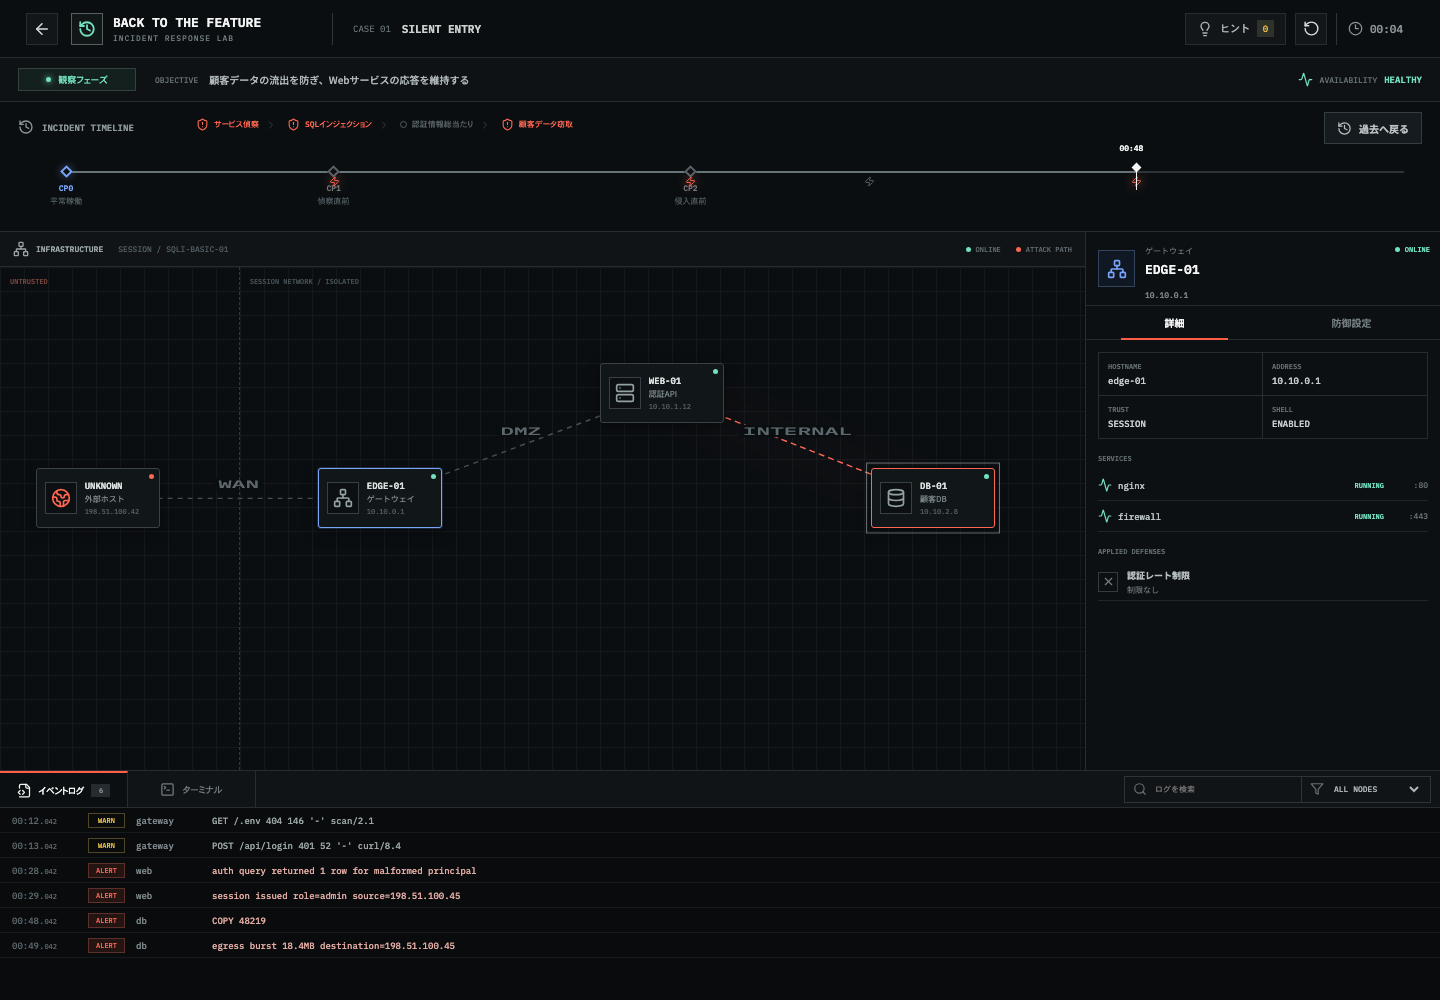
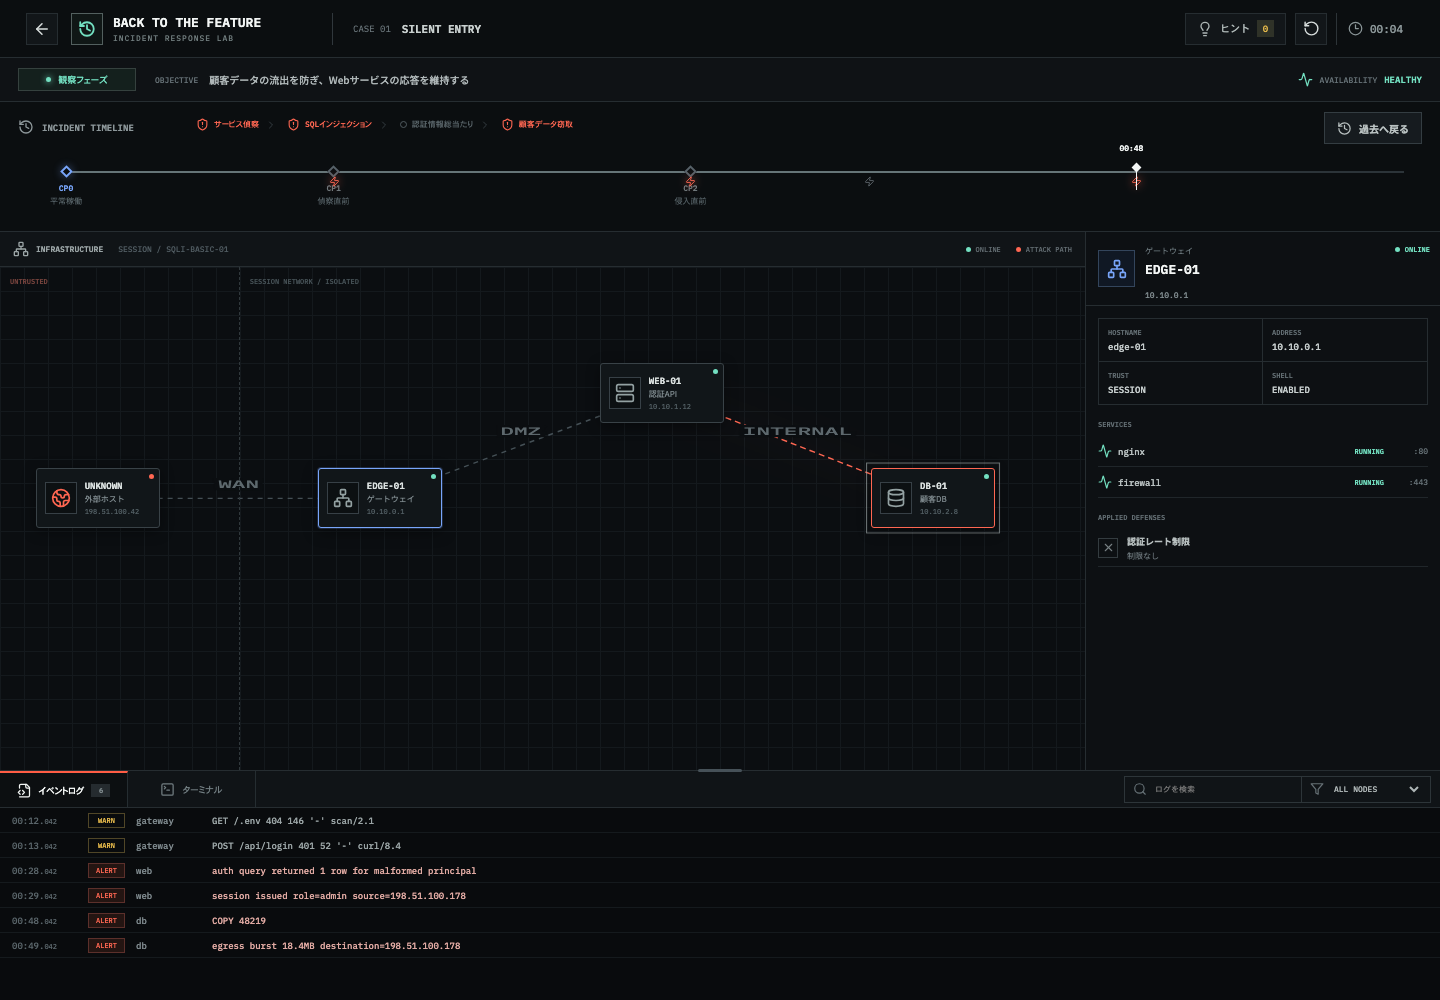
remove changing settings tab to use terminal for all change

Changed region(s): [[0.75, 0.31, 0.8438, 0.589], [0.875, 0.31, 0.9688, 0.434], [0.9375, 0.434, 0.9688, 0.496]]

diff --git a/src/App.tsx b/src/App.tsx
@@ -15,14 +15,12 @@ import {
   History,
   KeyRound,
   Lightbulb,
-  LockKeyhole,
   LogOut,
   Network,
   Play,
   RotateCcw,
   Search,
   Server,
-  Settings2,
   Shield,
   ShieldAlert,
   TerminalSquare,
@@ -36,7 +34,6 @@ import { stages } from './stages/loader'
 import { useProgress } from './store'
 import type {
   AttackResult,
-  DefenseDefinition,
   LoadedStage,
   LogEntry,
   Phase,
@@ -217,11 +214,9 @@ function GameSession({ stage, onExit, onReset }: { stage: LoadedStage; onExit: (
   const [terminalServerId, setTerminalServerId] = useState(stage.infra.servers.find((server) => server.shell)?.id ?? stage.infra.servers[0].id)
   const [selectedCheckpoint, setSelectedCheckpoint] = useState(stage.checkpoints[0].id)
   const [settings, setSettings] = useState(defaultSettings)
-  const [draft, setDraft] = useState(defaultSettings)
   const [results, setResults] = useState<AttackResult[]>([])
   const [logs, setLogs] = useState<LogEntry[]>([])
   const [playhead, setPlayhead] = useState(0)
-  const [rightTab, setRightTab] = useState<'details' | 'defense'>('details')
   const [consoleTab, setConsoleTab] = useState<'logs' | 'terminal'>('logs')
   const [logQuery, setLogQuery] = useState('')
   const [logServer, setLogServer] = useState('all')
@@ -248,7 +243,6 @@ function GameSession({ stage, onExit, onReset }: { stage: LoadedStage; onExit: (
   const terminalServer = terminalServers.find((server) => server.id === terminalServerId) ?? terminalServers[0] ?? stage.infra.servers[0]
   const maxTime = Math.max(...Object.values(stage.scenario.nodes).map((node) => node.time), 60)
   const observed = phase !== 'INITIALIZING' && results.length > 0
-  const changes = stage.defenses.filter((defense) => draft[defense.id] !== settings[defense.id])
 
   const maximumConsoleHeight = () => {
     const shellHeight = gameShellRef.current?.getBoundingClientRect().height ?? window.innerHeight
@@ -316,16 +310,24 @@ function GameSession({ stage, onExit, onReset }: { stage: LoadedStage; onExit: (
     const checkpoint = stage.checkpoints.find((item) => item.id === selectedCheckpoint)!
     setPhase('EDITING')
     setPlayhead(checkpoint.time)
-    setDraft(settings)
-    setRightTab('defense')
+    setConsoleTab('terminal')
     setLogs((current) => [{ id: `rewind-${Date.now()}`, time: `00:${String(checkpoint.time).padStart(2, '0')}`, server: 'system', level: 'INFO', message: `snapshot restored: ${checkpoint.id} / ${checkpoint.label}` }, ...current])
   }
 
-  const applySettings = () => {
-    if (!changes.length) return
-    const changedLabels = changes.map((item) => item.label).join(', ')
-    setSettings(draft)
-    setLogs((current) => [{ id: `config-${Date.now()}`, time: `00:${String(playhead).padStart(2, '0')}`, server: selectedServer.id, level: 'INFO', message: `configuration applied: ${changedLabels}` }, ...current])
+  const changeSettingFromTerminal = (serverId: string, settingId: string, value: boolean) => {
+    const defense = stage.defenses.find((item) => item.serverId === serverId && item.id === settingId)
+    if (!defense) return { ok: false, message: `config: '${settingId}' はこのノードの防御設定ではありません` }
+    if (phase !== 'EDITING') return { ok: false, message: 'config: 設定変更は対策フェーズでのみ実行できます。先に「過去へ戻る」を実行してください' }
+
+    setSettings((current) => ({ ...current, [settingId]: value }))
+    setLogs((current) => [{
+      id: `config-${Date.now()}-${settingId}`,
+      time: `00:${String(playhead).padStart(2, '0')}`,
+      server: serverId,
+      level: 'INFO',
+      message: `configuration updated from terminal: ${defense.label}=${value ? 'on' : 'off'}`,
+    }, ...current])
+    return { ok: true }
   }
 
   const simulate = () => {
@@ -395,7 +397,7 @@ function GameSession({ stage, onExit, onReset }: { stage: LoadedStage; onExit: (
         onSelectCheckpoint={setSelectedCheckpoint}
         onRewind={rewind}
         onSimulate={simulate}
-        canSimulate={phase === 'EDITING' && changes.length === 0}
+        canSimulate={phase === 'EDITING'}
       />
 
       <main className="workspace">
@@ -413,24 +415,7 @@ function GameSession({ stage, onExit, onReset }: { stage: LoadedStage; onExit: (
             <div><span>{selectedServer.role}</span><h2>{selectedServer.label}</h2><code>{selectedServer.ip}</code></div>
             <span className="online-label"><i /> ONLINE</span>
           </div>
-          <div className="tab-list compact-tabs">
-            <button className={rightTab === 'details' ? 'active' : ''} onClick={() => setRightTab('details')}>詳細</button>
-            <button className={rightTab === 'defense' ? 'active' : ''} onClick={() => setRightTab('defense')}>防御設定</button>
-          </div>
-          {rightTab === 'details' ? (
-            <ServerDetails stage={stage} server={selectedServer} settings={settings} />
-          ) : (
-            <DefenseSettings
-              stage={stage}
-              server={selectedServer}
-              phase={phase}
-              settings={settings}
-              draft={draft}
-              onChange={(id, value) => setDraft((current) => ({ ...current, [id]: value }))}
-              onApply={applySettings}
-              changes={changes}
-            />
-          )}
+          <ServerDetails stage={stage} server={selectedServer} settings={settings} />
         </aside>
       </main>
 
@@ -482,7 +467,7 @@ function GameSession({ stage, onExit, onReset }: { stage: LoadedStage; onExit: (
           )}
         </div>
         <div className="console-body">
-          {consoleTab === 'logs' ? <LogViewer logs={filteredLogs} loading={phase === 'INITIALIZING'} /> : <TerminalPanel server={terminalServer} stage={stage} settings={settings} connection={runtime.status === 'live' && runtime.sessionId && runtime.accessToken ? { sessionId: runtime.sessionId, accessToken: runtime.accessToken } : undefined} />}
+          {consoleTab === 'logs' ? <LogViewer logs={filteredLogs} loading={phase === 'INITIALIZING'} /> : <TerminalPanel server={terminalServer} stage={stage} settings={settings} onConfigChange={changeSettingFromTerminal} connection={runtime.status === 'live' && runtime.sessionId && runtime.accessToken ? { sessionId: runtime.sessionId, accessToken: runtime.accessToken } : undefined} />}
         </div>
       </section>
 
@@ -612,38 +597,6 @@ function ServerDetails({ stage, server, settings }: { stage: LoadedStage; server
       </dl>
       <div className="detail-section"><h3>SERVICES</h3>{server.services.map((service, index) => <div className="service-row" key={service}><Activity size={14} /><strong>{service}</strong><span>RUNNING</span><code>{server.ports[index] ? `:${server.ports[index]}` : 'internal'}</code></div>)}</div>
       <div className="detail-section"><h3>APPLIED DEFENSES</h3>{defenses.length ? defenses.map((defense) => <div className="applied-row" key={defense.id}><span className={settings[defense.id] ? 'enabled' : ''}>{settings[defense.id] ? <Check size={13} /> : <X size={13} />}</span><div><strong>{defense.label}</strong><small>{settings[defense.id] ? defense.onLabel : defense.offLabel}</small></div></div>) : <p className="empty-copy">編集可能な設定はありません。</p>}</div>
-    </div>
-  )
-}
-
-function DefenseSettings({
-  stage, server, phase, settings, draft, onChange, onApply, changes,
-}: {
-  stage: LoadedStage; server: ServerDefinition; phase: Phase; settings: Record<string, boolean>; draft: Record<string, boolean>
-  onChange: (id: string, value: boolean) => void; onApply: () => void; changes: DefenseDefinition[]
-}) {
-  const defenses = stage.defenses.filter((defense) => defense.serverId === server.id)
-  const editable = phase === 'EDITING'
-  return (
-    <div className="defense-settings">
-      {!editable && <div className="edit-lock"><LockKeyhole size={15} /><span>設定スナップショットは読み取り専用です</span></div>}
-      <div className="defense-list scroll-area">
-        {defenses.map((defense) => (
-          <label className={`defense-control ${!editable ? 'disabled' : ''}`} key={defense.id}>
-            <div className="defense-control-copy"><strong>{defense.label}</strong><p>{defense.description}</p><code>{defense.configPath}</code></div>
-            <input type="checkbox" checked={draft[defense.id]} disabled={!editable} onChange={(event) => onChange(defense.id, event.target.checked)} />
-            <span className="toggle"><i /></span>
-            <small className={draft[defense.id] ? 'on' : ''}>{draft[defense.id] ? defense.onLabel : defense.offLabel}</small>
-          </label>
-        ))}
-        {!defenses.length && <div className="empty-state"><ShieldAlert size={24} /><strong>編集対象外ノード</strong><p>このノードに変更可能な防御設定はありません。</p></div>}
-      </div>
-      {editable && (
-        <div className="change-footer">
-          <div><span>差分</span><strong>{changes.length ? `${changes.length}件の未適用変更` : '適用済み'}</strong></div>
-          <button className="apply-button" disabled={!changes.length} onClick={onApply}><Check size={15} /> 設定を適用</button>
-        </div>
-      )}
     </div>
   )
 }

diff --git a/src/components/TerminalPanel.tsx b/src/components/TerminalPanel.tsx
@@ -15,6 +15,7 @@ interface TerminalPanelProps {
   stage: LoadedStage
   settings: Record<string, boolean>
   connection?: LiveTerminalConnection
+  onConfigChange: (serverId: string, settingId: string, value: boolean) => { ok: boolean; message?: string }
 }
 
 const helpEntries = [
@@ -29,7 +30,7 @@ const helpEntries = [
   ['inspect [defense|network]', 'section: optional', '防御設定またはネットワーク境界を調査'],
   ['ls [path]', 'path: optional', 'workspace内のREADMEと設定ファイルを一覧表示'],
   ['cat PATH', 'workspace file', 'READMEまたは設定ファイルの内容を表示'],
-  ['config get|set PATH [VALUE]', 'action; workspace path; value', 'workspace内の設定を読み書き'],
+  ['config get PATH | config set PATH KEY on|off', 'path; setting name; on/off', '設定表示、または防御設定を即時反映'],
 ] as const
 
 function normalizeWorkspacePath(path = '.') {
@@ -39,10 +40,12 @@ function normalizeWorkspacePath(path = '.') {
   return normalized.startsWith('/') || normalized.includes('/') ? null : normalized
 }
 
-export function TerminalPanel({ server, stage, settings, connection }: TerminalPanelProps) {
+export function TerminalPanel({ server, stage, settings, connection, onConfigChange }: TerminalPanelProps) {
   const mountRef = useRef<HTMLDivElement>(null)
   const settingsRef = useRef(settings)
+  const onConfigChangeRef = useRef(onConfigChange)
   settingsRef.current = settings
+  onConfigChangeRef.current = onConfigChange
 
   useEffect(() => {
     if (!mountRef.current) return
@@ -81,6 +84,8 @@ export function TerminalPanel({ server, stage, settings, connection }: TerminalP
       terminal.writeln(`Back to the Feature // connecting ${server.label} ...`)
       socket = new WebSocket(terminalSocketUrl(connection.sessionId, server.id), ['btf-terminal', connection.accessToken])
       socket.binaryType = 'arraybuffer'
+      const decoder = new TextDecoder()
+      let liveOutputBuffer = ''
       socket.addEventListener('open', () => {
         if (disposed) return
         resize()
@@ -88,7 +93,21 @@ export function TerminalPanel({ server, stage, settings, connection }: TerminalP
       })
       socket.addEventListener('message', (event) => {
         if (disposed) return
-        terminal.write(typeof event.data === 'string' ? event.data : new Uint8Array(event.data as ArrayBuffer))
+        const chunk = typeof event.data === 'string'
+          ? event.data
+          : decoder.decode(new Uint8Array(event.data as ArrayBuffer), { stream: true })
+        terminal.write(chunk)
+        liveOutputBuffer = (liveOutputBuffer + chunk).slice(-4096)
+        const lines = liveOutputBuffer.split(/\r?\n/)
+        liveOutputBuffer = lines.pop() ?? ''
+        for (const line of lines) {
+          const updated = line.replace(/\x1b\[[0-?]*[ -/]*[@-~]/g, '').trim().match(/^updated (\S+): ([a-z][a-z0-9_]*)=(on|off)$/)
+          if (!updated) continue
+          const defense = stage.defenses.find((item) => item.serverId === server.id && `${item.id}.conf` === updated[1] && item.id === updated[2])
+          if (!defense) continue
+          const result = onConfigChangeRef.current(server.id, defense.id, updated[3] === 'on')
+          if (!result.ok && result.message) terminal.writeln(`\r\n\x1b[31m${result.message}\x1b[0m`)
+        }
       })
       socket.addEventListener('close', (event) => {
         if (disposed) return
@@ -135,16 +154,12 @@ export function TerminalPanel({ server, stage, settings, connection }: TerminalP
         'COMMAND                       ARGUMENTS                         DESCRIPTION',
         ...helpEntries.map(([usage, args, description]) => `${usage.padEnd(29)} ${args.padEnd(33)} ${description}`),
         '',
-        '例: ls  |  cat README.md  |  config get rate_limit.conf',
+        '例: config get rate_limit.conf  |  config set rate_limit.conf rate_limit on',
       ])
     }
 
     let line = ''
-    const fileOverrides = new Map<string, string>()
-    const workspaceFiles = () => ({
-      ...createTerminalFiles(stage, server, settingsRef.current),
-      ...Object.fromEntries(fileOverrides),
-    })
+    const workspaceFiles = () => createTerminalFiles(stage, server, settingsRef.current)
     const run = (raw: string) => {
       const [name = '', ...args] = tokenize(raw.trim())
       if (!name) return
@@ -195,19 +210,22 @@ export function TerminalPanel({ server, stage, settings, connection }: TerminalP
         const [action, requestedPath, ...valueParts] = args
         const path = normalizeWorkspacePath(requestedPath)
         const files = workspaceFiles()
-        if (!['get', 'set'].includes(action) || !requestedPath) output(['usage: config get|set PATH [VALUE]'])
+        if (!['get', 'set'].includes(action) || !requestedPath) output(['usage: config get PATH | config set PATH KEY on|off'])
         else if (path === null) output(['config: PATH must remain below workspace'])
         else if (!path || !(path in files)) output([`config: '${requestedPath}' は見つかりません`])
         else if (action === 'get') output([`${path}:`, ...files[path].replace(/\n$/, '').split('\n')])
         else {
           const assignment = files[path].match(/^([a-z][a-z0-9_]*)=(.*)$/m)
-          const supplied = valueParts.join(' ').trim()
-          if (!assignment || !supplied) output([`usage: config set ${path} ${assignment?.[1] ?? 'KEY'}=VALUE`])
+          const [suppliedKey, value, ...extra] = valueParts
+          const key = assignment?.[1]
+          const defense = stage.defenses.find((item) => item.serverId === server.id && `${item.id}.conf` === path)
+          if (!assignment || !suppliedKey || !value || extra.length) output([`usage: config set ${path} ${key ?? 'KEY'} on|off`])
+          else if (!defense || key !== defense.id) output([`config: '${path}' は変更可能な防御設定ではありません`])
+          else if (suppliedKey !== key) output([`config: '${suppliedKey}' は ${path} の設定名ではありません（expected: ${key}）`])
+          else if (!['on', 'off'].includes(value)) output([`config: VALUE は on または off を指定してください`])
           else {
-            const key = assignment[1]
-            const value = supplied.startsWith(`${key}=`) ? supplied.slice(key.length + 1) : supplied
-            fileOverrides.set(path, files[path].replace(new RegExp(`^${key}=.*$`, 'm'), `${key}=${value}`))
-            output([`updated ${path}: ${key}=${value}`, 'GUIの防御設定は右側パネルの「設定を適用」から変更してください'])
+            const result = onConfigChangeRef.current(server.id, defense.id, value === 'on')
+            output(result.ok ? [`updated ${path}: ${key}=${value}`] : [result.message ?? 'config: 設定を変更できませんでした'])
           }
         }
       } else {

diff --git a/src/styles.css b/src/styles.css
@@ -118,7 +118,7 @@ button:focus-visible, input:focus-visible, select:focus-visible { outline: 2px s
 .attack-step.success { color: var(--red); }
 .attack-step.blocked { color: var(--green); }
 .timeline-actions { width: 194px; display: flex; justify-content: flex-end; }
-.primary-button, .secondary-button, .rewind-button, .apply-button, .danger-button { min-height: 32px; padding: 0 12px; border: 1px solid transparent; display: inline-flex; align-items: center; justify-content: center; gap: 7px; cursor: pointer; font-weight: 600; font-size: 10px; }
+.primary-button, .secondary-button, .rewind-button, .danger-button { min-height: 32px; padding: 0 12px; border: 1px solid transparent; display: inline-flex; align-items: center; justify-content: center; gap: 7px; cursor: pointer; font-weight: 600; font-size: 10px; }
 .primary-button { background: var(--green); color: #08100e; }
 .primary-button:hover { background: #90ecd2; }
 .primary-button:disabled { cursor: not-allowed; color: #626b6c; background: #242a2d; border-color: #30373b; }
@@ -181,7 +181,7 @@ button:focus-visible, input:focus-visible, select:focus-visible { outline: 2px s
 .zone-internal { left: calc(22% + 11px); }
 
 /* Detail sidebar */
-.detail-panel { display: grid; grid-template-rows: 74px 34px minmax(0, 1fr); }
+.detail-panel { display: grid; grid-template-rows: 74px minmax(0, 1fr); }
 .server-heading { position: relative; padding: 11px 12px; display: flex; gap: 10px; align-items: center; border-bottom: 1px solid var(--border); }
 .server-icon { width: 37px; height: 37px; display: grid; place-items: center; color: var(--blue); border: 1px solid #33455c; background: #101824; }
 .server-heading > div:nth-child(2) { min-width: 0; }
@@ -192,10 +192,6 @@ button:focus-visible, input:focus-visible, select:focus-visible { outline: 2px s
 .online-label i { width: 5px; height: 5px; border-radius: 50%; background: var(--green); }
 .tab-list { display: flex; }
 .tab-list button { border: 0; background: transparent; color: #717d81; cursor: pointer; font-size: 10px; font-weight: 600; }
-.compact-tabs { border-bottom: 1px solid var(--border); }
-.compact-tabs button { flex: 1; position: relative; }
-.compact-tabs button.active { color: var(--white); }
-.compact-tabs button.active::after { content: ''; position: absolute; left: 20%; right: 20%; bottom: -1px; height: 2px; background: var(--stage-accent); }
 .scroll-area { overflow-y: auto; scrollbar-width: thin; scrollbar-color: #354046 transparent; }
 .server-details { padding: 12px; }
 .detail-grid { margin: 0; display: grid; grid-template-columns: 1fr 1fr; border: 1px solid var(--border); }
@@ -217,31 +213,6 @@ button:focus-visible, input:focus-visible, select:focus-visible { outline: 2px s
 .applied-row strong { color: #b6bebe; font-size: 9px; }
 .applied-row small { color: #687277; font-size: 8px; margin-top: 2px; }
 .empty-copy { color: #687277; font-size: 10px; }
-.defense-settings { min-height: 0; display: grid; grid-template-rows: auto minmax(0, 1fr) auto; }
-.edit-lock { min-height: 31px; padding: 6px 10px; display: flex; align-items: center; gap: 7px; color: var(--yellow); background: #1d1b14; border-bottom: 1px solid #353121; font-size: 9px; }
-.defense-list { padding: 7px 11px 10px; }
-.defense-control { min-height: 75px; display: grid; grid-template-columns: minmax(0, 1fr) 36px; grid-template-rows: 1fr 19px; align-items: center; padding: 9px 0 7px; border-bottom: 1px solid #252c30; cursor: pointer; }
-.defense-control.disabled { cursor: default; opacity: .75; }
-.defense-control-copy { min-width: 0; grid-row: 1 / 3; }
-.defense-control strong { display: block; color: #cdd3d2; font-size: 10px; }
-.defense-control p { margin: 4px 8px 4px 0; color: #758084; font-size: 8px; line-height: 1.45; }
-.defense-control code { display: block; overflow: hidden; color: #4f5b60; font: 500 7px "IBM Plex Mono", monospace; text-overflow: ellipsis; white-space: nowrap; }
-.defense-control input { position: absolute; opacity: 0; pointer-events: none; }
-.toggle { width: 32px; height: 17px; position: relative; border: 1px solid #3e484d; background: #242a2d; }
-.toggle i { width: 11px; height: 11px; position: absolute; left: 2px; top: 2px; background: #778186; transition: transform .15s ease; }
-.defense-control input:checked + .toggle { border-color: #37685c; background: #173129; }
-.defense-control input:checked + .toggle i { background: var(--green); transform: translateX(15px); }
-.defense-control > small { color: #6f797d; font: 500 7px "IBM Plex Mono", monospace; }
-.defense-control > small.on { color: var(--green); }
-.change-footer { min-height: 51px; padding: 7px 10px; display: flex; align-items: center; justify-content: space-between; border-top: 1px solid var(--border); background: #101417; }
-.change-footer > div { display: flex; flex-direction: column; }
-.change-footer span { color: #687277; font-size: 7px; }
-.change-footer strong { margin-top: 2px; color: #adb6b6; font-size: 9px; }
-.apply-button { background: #1c302b; border-color: #315a50; color: var(--green); }
-.apply-button:disabled { cursor: not-allowed; background: #1a1e20; border-color: #2c3337; color: #5d676b; }
-.empty-state { height: 160px; display: flex; flex-direction: column; align-items: center; justify-content: center; color: #5d686d; text-align: center; }
-.empty-state strong { margin: 10px 0 5px; color: #929c9e; font-size: 10px; }
-.empty-state p { margin: 0; font-size: 8px; }
 
 /* Console */
 .console-panel { position: relative; border-top: 1px solid var(--border); }

diff --git a/src/lib/terminalFilesystem.ts b/src/lib/terminalFilesystem.ts
@@ -47,7 +47,7 @@ export function createTerminalFiles(
     '| `session.conf` | `stage_id`, `server_id`, `mode` | 接続中セッションの識別情報 | runtime |',
     ...rows,
     '',
-    '> シェル内の編集は調査用ワークスペースだけに反映されます。ゲームの防御設定は右側パネルの「設定を適用」で変更してください。',
+    '> 対策フェーズでは `config set <file> <setting> on|off` で防御設定をゲームへ即時反映できます。',
     '',
   ].join('\n')
 

diff --git a/README.md b/README.md
@@ -47,11 +47,12 @@ ls
 cat README.md
 cat rate_limit.conf
 config get rate_limit.conf
+config set rate_limit.conf rate_limit on
 ```
 
 `README.md` は「どのファイルがどの設定を格納するか」を表で示します。`session.conf` はステージ／ノード／モードを、`<setting-id>.conf` はそのノードの防御設定を格納します。すべての設定行の直前に、その役割、元のゲーム内パス、on/off の意味をコメントで記載しています。
 
-シェル上のファイル編集は隔離された調査ワークスペースだけに反映されます。ゲームの防御状態を変更する場合は、右側の「防御設定」で変更して「設定を適用」を押してください。
+防御状態の変更は対策フェーズでターミナルから行います。`config set <path> <setting-name> <on|off>` のように、設定ファイル、設定名、値をそれぞれ指定するとゲームへ即時反映されます。たとえば `ssh_keys_only.conf` の設定を有効にする場合は `config set ssh_keys_only.conf ssh_keys_only on` です。不正な設定名や `on` / `off` 以外の値は拒否されます。
 
 ## 検証
 

diff --git a/infra/images/training-target/defaults/README.md b/infra/images/training-target/defaults/README.md
@@ -6,3 +6,4 @@ The container startup process replaces this file with a node-specific Japanese g
 - One `<setting-id>.conf` file for each defense setting available on the current node.
 
 Every assignment in those files has an adjacent comment explaining its role. Use `ls`, `cat README.md`, or `config get <setting-id>.conf` from the training terminal.
+During the editing phase, apply one with `config set <setting-id>.conf <setting-id> on|off`.
